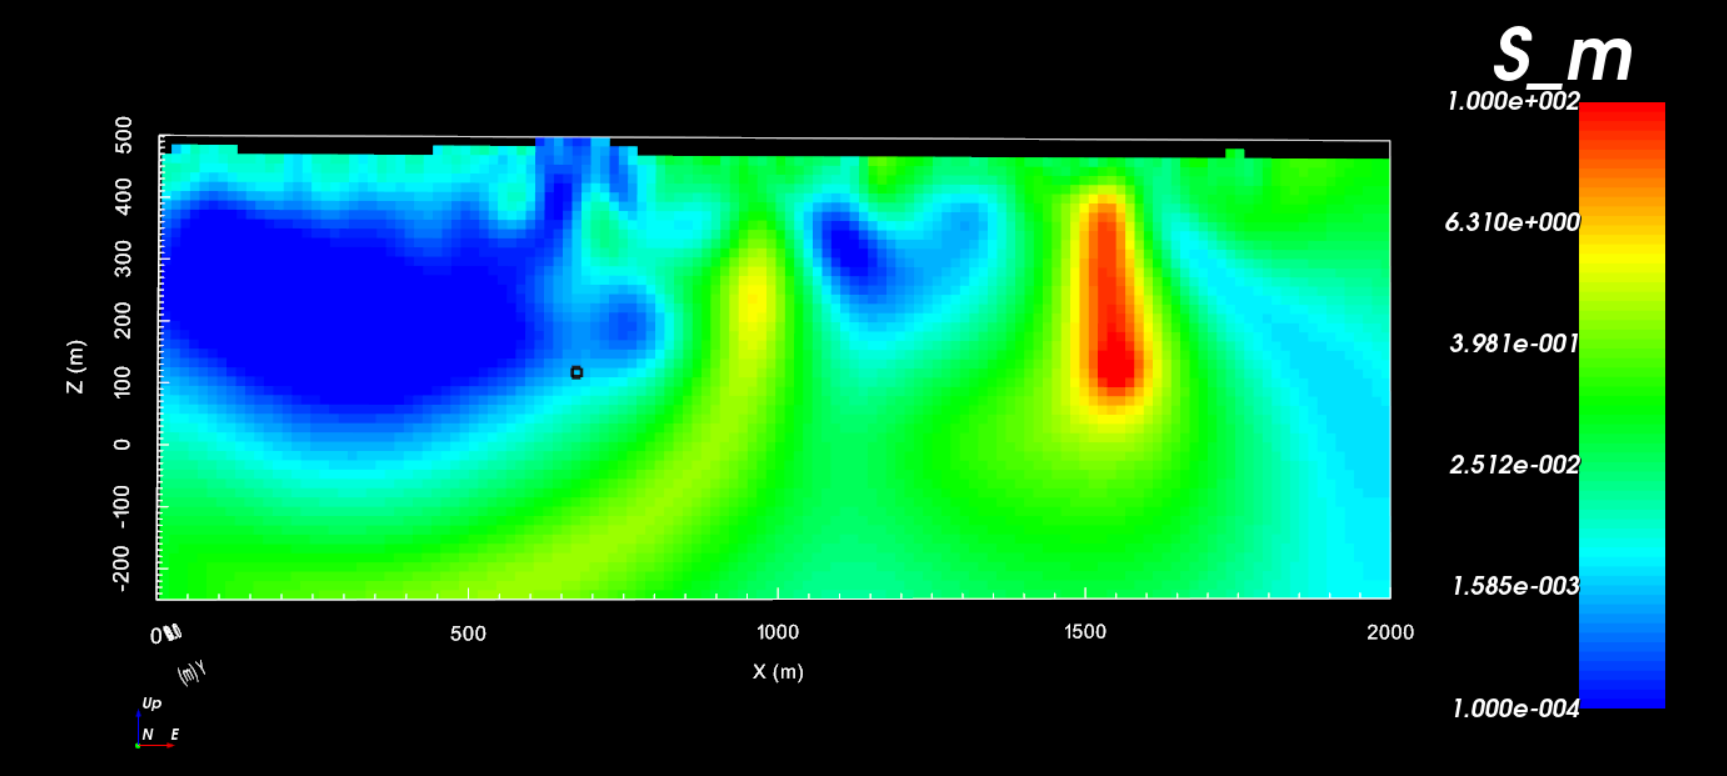
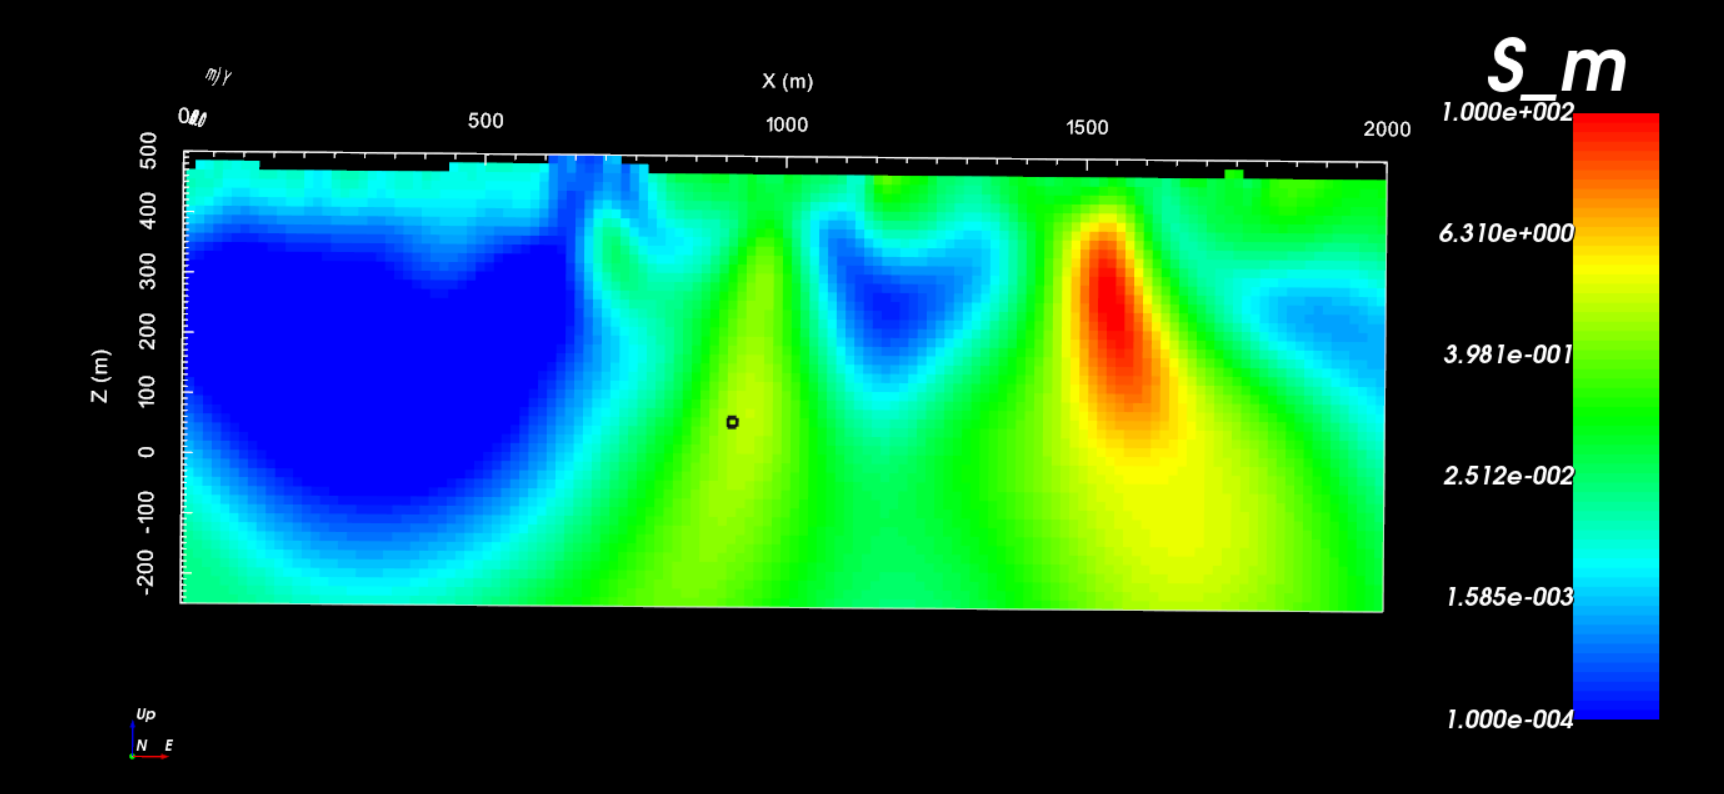
more 2d content

diff --git a/content/comprehensive_workflow/dcip/6_batch_2D.rst b/content/comprehensive_workflow/dcip/6_batch_2D.rst
@@ -5,7 +5,7 @@
 Batch 2D Inversion
 ==================
 
-The user may choose to assign distinct uncertainties to each line of 2D DC/IP data and invert the respecitve lines independently. If the same set of parameters is to be used for each DC/IP line, the inversions can be run as part of a batch. The batch inversion works well if 1) you have run test inversions on one or more survey lines and, 2) both the uncertainties and chi-factor are reasonable. Here, we demonstrate how to run a batch inversion for all DC and IP survey lines.
+The user may choose to assign distinct uncertainties to each line of 2D DC/IP data and invert the respecitve lines independently. If the same set of parameters is to be used for each DC/IP line however, the inversions can be run as part of a batch. The batch inversion works well if 1) you have run test inversions on one or more survey lines and, 2) both the uncertainties and chi-factor are reasonable. Here, we demonstrate how to run a batch inversion for all DC and IP survey lines.
 
 
 2D DC Batch Inversion
@@ -14,55 +14,103 @@ The user may choose to assign distinct uncertainties to each line of 2D DC/IP da
 Defining an Inversion Template
 ^^^^^^^^^^^^^^^^^^^^^^^^^^^^^^
 
+Here, we define the parameters that will be used when inverting each survey line. To create the template:
+
+    - :ref:`Create a new 2D DC inversion object <createDCIPInv>` and select a working directory when prompted. It is important that you create a new inversion object for this.
+    - Use :ref:`edit options <invEditOptions_dcip2d>` to set the parameters for the inversion. For the tutorial data, we used the :ref:`same parameters as before <comprehensive_workflow_dcip_4_DC>`.
+    - Click *Apply*. **Do not** write the files.
+
+.. note::
+
+    - You will need to enter placeholders for the data and topography, but they will be ignored during the batch inversion.
+    - If you are confident in your misfits and chi-factor, use the *Discrepancy* option when defining the trade-off parameter.
 
 
+Performing the Batch Inversion
+^^^^^^^^^^^^^^^^^^^^^^^^^^^^^^
 
+To set up and run the batch inversion, apply the following under the *Batch Inversion* menu:
 
-
-Running the Batch Inversion
-^^^^^^^^^^^^^^^^^^^^^^^^^^^
-
-
+    - :ref:`Set inversion template <batchInversionSetTemplate>` to the 2D DC inversion object you created
+    - :ref:`Set the 2D DC data objects <batchInversionSetData>` (the data object for each survey line). If applicable, GIFtools will prompt you to select the associated topography objects.
+    - :ref:`Create/Write all <batchInversionCreateInv>` 2D inversion objects. **If** sensitivity weighting are being applied, GIFtools will automatically compute the sensitivity weights. Please allows this step to finish before doing anything else.
+    - :ref:`Run inversions <batchInversionRun>`
 
 
 Results
 ^^^^^^^
+
+If the **Default** option was selected for the trade-off parameter, the user believes the target chi-factor for each survey line could be different. For each 2D inversion object, the user must:
+
+    - Analyze the inversion results and choose a final model according to the :ref:`Analyzing 2D Inversion Results <comprehensive_workflow_dcip_5>` section of this tutorial. **For the tutorial data**, in order (lines 1-10), we chose iterations: 12, 12, 13, 12, 12, 11, 11, 10, 10 and 11.
+
+If the **Discrepancy** option was used and a target chi-factor was defined, you can use functionality under the *Batch Inversion* menu to:
+
+    - :ref:`Load the final model or the first to reach the target chi-factor <batchInversionLoad>` for all 2D inversions.
+
+
+
+Interpolation to 3D Mesh
+^^^^^^^^^^^^^^^^^^^^^^^^
+
+Once you have completed the batch inversion, it is benefitial to compare the set of recovered 2D models side by side. Here, we interpolate the set of recovered 2D models onto a 3D tensor mesh. We start by creating a 3D tensor mesh. Next, we interpolate the set of 2D models onto the 3D mesh.
+
+**Creating the mesh:**
+
+    - :ref:`Create 3D tensor mesh <create_mesh_3D>`
+
+        - Use the 3D DC data object to calculate limits of the core mesh region
+        - Make any adjustments to parameters
+        - Click *OK*
+
+
+The set of parameters used to create a 3D mesh for the **tutorial data** is shown below.
+
+.. important::
+
+    The user is strongly urged to:
+
+        - Set *dx* and *dz* to match the values used for constructing the 2D mesh. And let *dx* = *dy*.
+        - Remove any padding unless it is important for interpretation.
+
+
+
+.. figure:: images/mesh3D.png
+    :align: center
+    :width: 500
+
+    Parameters used to create 3D tensor mesh.
+
+
+Once the 3D mesh has been created, select any of the *Batch Inversion* objects and:
+
+    - :ref:`Merge all <batchInversionMerge>` to interpolate to 3D mesh.
+
+
+**For the tutorial data**, we see the set of recovered 2D conductivity models below. For comparison, we also show the result if *Discrepancy* and a chi-factor of 1 was used to define the trade-off parameter.
 
 
 .. figure:: images/inv_dc2d_batch.png
     :align: center
     :width: 600
 
-    Batch inversion results.
-
+    2D conductivity models with *Default* trade-off parameter and manual picking (left). 2D conductivity models with *Discrepancy* and a chi-factor of 1 (right).
 
 
 
 2D IP Batch Inversion
 ---------------------
 
-Defining an Inversion Template
-^^^^^^^^^^^^^^^^^^^^^^^^^^^^^^
 
+The process for creating and running a 2D IP batch inversion is nearly identical to that of a 2D DC batch inversion. When prompted, the batch inversion will ask you for the associated set of 2D DC inversion objects. This is done to assign a background conductivity model for each IP inversion.
 
+**For the tutorial data**, the 5th iteration was chosen as the final model for all survey lines. The set of recovered 2D models was interpolated to the same 3D mesh. We see the set of recovered 2D chargeability models below. For comparison, we also show the result if *Discrepancy* and a chi-factor of 1 was used to define the trade-off parameter.
 
-
-Running the Batch Inversion
-^^^^^^^^^^^^^^^^^^^^^^^^^^^
-
-
-
-
-Results
-^^^^^^^
 
 
 .. figure:: images/inv_ip2d_batch.png
     :align: center
     :width: 600
 
-    Batch inversion results.
+    2D chargeability models with *Default* trade-off parameter and manual picking (left). 2D chargeability models with *Discrepancy* and a chi-factor of 1 (right).
 
-
-Interpolation to 3D Mesh
-------------------------

diff --git a/content/comprehensive_workflow/dcip/5_local_2D_results.rst b/content/comprehensive_workflow/dcip/5_local_2D_results.rst
@@ -32,7 +32,7 @@ Once the inversion outputs have been loaded (done in the :ref:`inversion section
 
 The Tikhonov curve for our tutorial inversion is shown below. According to the figure:
 
-    - the inversion reaches a chi-factor of 1.08 after 12 iterations.
+    - the inversion reaches a chi-factor of 1 after 12 iterations.
     - the data misfit is decreasing over the course of the beta cooling schedule, except for at iteration 13.
     - the inversion is able to reach target misfit (chi-factor = 1)
 
@@ -117,17 +117,17 @@ The Tikhonov curve for our tutorial inversion is shown below. According to the f
 Data Misfit
 ^^^^^^^^^^^
 
-According the Tikhonov curve, the recovered model at iteration 4 has a good chance of explaining the data without fitting the noise. This is assuming we have slightly under-estimated the uncertainties on our data. To be sure however, we must examine the observed data, predicted data and data misfit for the corresponding model. Here are some good questions to ask during this step:
+According the Tikhonov curve, the recovered model at iteration 5 has a good chance of explaining the data without fitting the noise. This is assuming we have accurately estimated the uncertainties on our data. To be sure however, we must examine the observed data, predicted data and data misfit for the corresponding model. Here are some good questions to ask during this step:
 
     - Are the prominent anomaly features identified in the observed data also found in the predicted data?
     - Are there obvious coherent features in the normalized misfit maps? If so, this indicates you are over-fitting certain regions at the expense of others and that you must assign new uncertainties and re-run the inversion.
 
 
-For iteration 4, we used the *split data based on electrode geometry* to separate the dipole-pole and pole-dipole data once again. For each electrode configuration, we see the predicted data, observed data and normalized misfit below. For this survey line, we saw that:
+For iteration 5, we used the *split data based on electrode geometry* to separate the dipole-pole and pole-dipole data once again. For each electrode configuration, we see the predicted data, observed data and normalized misfit below. For this survey line, we saw that:
 
-    - Data structures in the dipole-pole and pole-dipole data are reasonably well reproduced. However, the predicted pole-dipole IP anomaly has a smaller amplitude than was observed. 
-    - The dipole-pole data appear slightly over-fit while the pole-dipole data are slightly under-fit.
-    - The balance between floor and percent uncertainty seems reasonable as we are fitting the anomalies and not the background.
+    - Data structures in the dipole-pole and pole-dipole data are reasonably well reproduced. 
+    - Normalized misfits generally lie within a range of [-2, 2].
+    - The highest normalized misfit values are associated with anomalous apparent chargeability values. This could be caused by a) under-estimating the floor uncertainty and/or b) over-estimating the percent uncertainty.
 
 For this exercise, we will not assign new uncertainties and re-run the inversion. In practice however, you may choose to decrease the percent uncertainty on the pole-dipole data.
 
@@ -152,8 +152,8 @@ Recovered Conductivity Model
 
 The chargeability model recovered at the 4th iteration is shown below. According to the recovered model:
 
-    - The maximum chargeability value is 61 ms, which is less than the largest apparent chargeability seen in the pole-dipole data. The model at iteration 5 has a larger maximum chargeability. However, the structures in this model were less geologically plausible.
-    - The secondary conductive structure at *X* = 950 m appears to be chargeable.
+    - The model at iteration 5 fits the data appropriately. However, the structures in this model were less geologically plausible than observed in iteration 4. This suggests the ideal chi factor is somewhere between that of the 4th and 5th iteration.
+    - The secondary conductive structure at *X* = 950 m appears to be chargeable but the primary conductive structure at *X* = 1500 m is not.
 
 
 
@@ -161,5 +161,5 @@ The chargeability model recovered at the 4th iteration is shown below. According
     :align: center
     :width: 500
 
-    Recovered model at iteration 4.
+    Recovered model at iteration 5.
 

diff --git a/content/comprehensive_workflow/dcip/4_local_2D.rst b/content/comprehensive_workflow/dcip/4_local_2D.rst
@@ -43,6 +43,8 @@ To design a 2D mesh:
     2D tensor mesh for tutorial data. The total number of cells was 33,100.
 
 
+.. _comprehensive_workflow_dcip_4_DC:
+
 2D DC Inversion
 ---------------
 
@@ -79,7 +81,8 @@ Discussion of Parameters
     - **Advanced Tab: Parameter 1**
 
         - *Trade-off parameter:* For synthetic modeling, we know the uncertainties on our data. With real data, we cannot be 100% sure that we have correctly estimated the uncertainties. To see the complete Tikhonov curve, we et to *Default* and set the *max number of iterations* to 20
-        - *Length scales:* Choose *Alphas* and set *Alpha_s* = 1e-4 and *Alpha_x* = *Alpha_z* = 1
+        - *Solver:* the maximum number of iterations for the CG solve was increased to 30
+        - *Length scales:* Choose *Alphas* and set *Alpha_s* = 1e-6 and *Alpha_x* = *Alpha_z* = 1
 
     - **Advanced Tab: Parameter 2**
 
@@ -89,9 +92,10 @@ Discussion of Parameters
 
 For synthetic modeling, we know the uncertainties on our data. With real data, we cannot be 100% sure that we have correctly estimated the uncertainties. We set the trade-off parameter to *Default* in order to see the entire Tikhonov curve and not make assumptions about the target misfit.
 
-The starting and reference models were chosen from the distribution of apparent resistivity values observed in pseudo-section. *Alpha_s* was set very low because the reference model is almost certainly not a reasonable first approximation of the true resistivity structure. Thus were are providing a starting model for the inversion and letting the data constrain the result.
+The starting and reference models were chosen from the distribution of apparent resistivity values observed in pseudo-section. *Alpha_s* was set very low because the reference model is almost certainly not a reasonable first approximation of the true resistivity structure. Thus were are providing a starting model for the inversion and letting the data constrain the result. This is known as inverting for the smoothest model.
 
 
+.. _comprehensive_workflow_dcip_4_IP:
 
 2D IP Inversion
 ---------------
@@ -129,7 +133,8 @@ Discussion or Parameters
     - **Advanced Tab: Parameter 1**
 
         - *Trade-off parameter:* Set to *Default* and set the *max number of iterations* to 10 (convergence for IP is fast)
-        - *Length scales:* Choose *Alphas* and set *Alpha_s* = 1e-4 and *Alpha_x* = *Alpha_z* = 1
+        - *Length scales:* Choose *Alphas* and set *Alpha_s* = 1e-6 and *Alpha_x* = *Alpha_z* = 1
+        - *Solver:* the maximum number of iterations for the CG solve was increased to 30
         - *Bounds:* Set *Lower* = 0 and *Upper* = 1e6
 
     - **Advanced Tab: Parameter 2**
@@ -140,7 +145,7 @@ Discussion or Parameters
 
 For synthetic modeling, we know the uncertainties on our data. With real data, we cannot be 100% sure that we have correctly estimated the uncertainties. We set the trade-off parameter to *Default* in order to see the entire Tikhonov curve and not make assumptions about the target misfit. The IP inversion converges quickly so we can reduce the *max number of iterations* parameter.
 
-*Alpha_s* was set very low because the reference model is almost certainly not a reasonable first approximation of the true resistivity structure. Thus were are providing a starting model for the inversion and letting the data constrain the result. We set a lower bound of 0 to force the recovered chargeabilities to be positive. Because we do not have an upper bound for the inversion, we set the value to something very large.
+*Alpha_s* was set very low because the reference model is almost certainly not a reasonable first approximation of the true resistivity structure. Thus were are providing a starting model for the inversion and letting the data constrain the result. This is known as the smoothest model. We set a lower bound of 0 to force the recovered chargeabilities to be positive. Because we do not have an upper bound for the inversion, we set the value to something very large.
 
 The background conductivity model is chosen as the recovered model from the 2D DC inversion. In general, we are looking for chargeable structures in a non-chargeable background. As a result, the reference model was set to 0. To ensure a non-zero model update at the first iteration, a very small value (1e-2) is chosen for the starting model.
 

diff --git a/content/objectFunctionality/workflow/BatchInversion.rst b/content/objectFunctionality/workflow/BatchInversion.rst
@@ -81,14 +81,14 @@ If none are selected, the ``Batch Inversion`` will default to the input topograp
 
 .. _batchInversionCreateInv:
 
-Create Inversions
-^^^^^^^^^^^^^^^^^
+Create/Write Inversions
+^^^^^^^^^^^^^^^^^^^^^^^
 
 With this option, the ``Batch Inversion`` routine copies the ``Template`` and replace only
 the components specific to each inversions (data, mesh, topography). By default, the selected ``Data`` and
 ``TOPO2Ddata`` objects will be copied to the newly created inversion object.
 
-**Workflow** |rarr| **Create Inversions**
+**Workflow** |rarr| **Create/Write all**
 
 .. _batchInversionRun:
 
